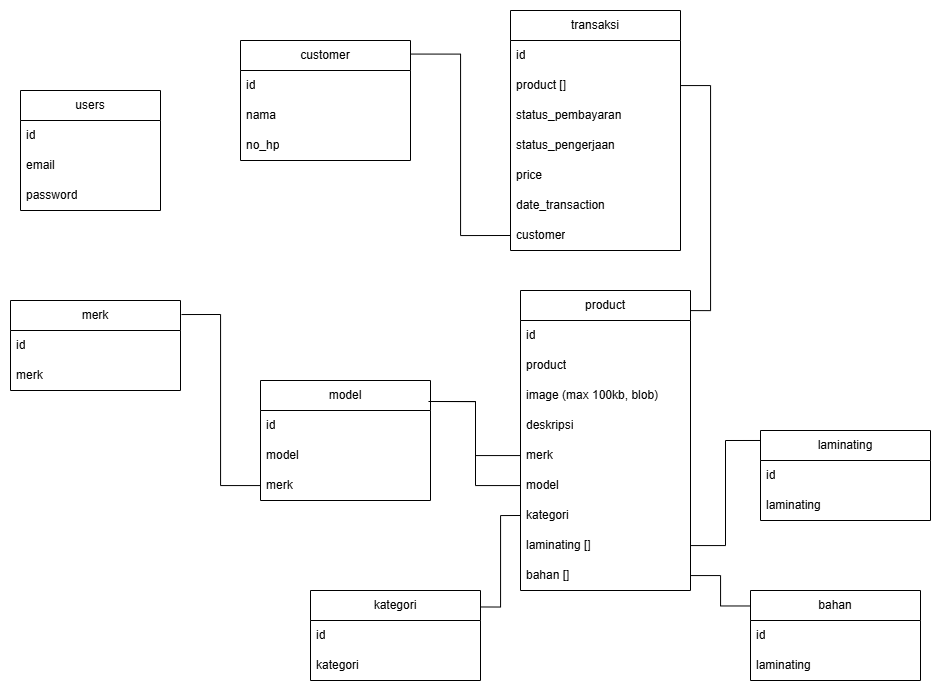
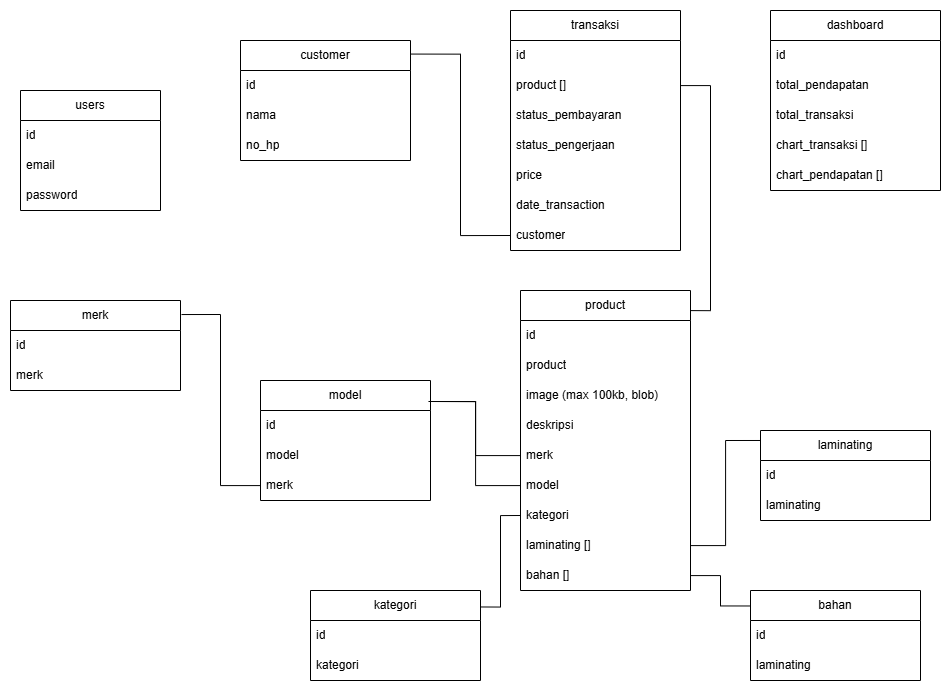
complete all feature

diff --git a/src/pages/dashboard/dashboardIndex.jsx b/src/pages/dashboard/dashboardIndex.jsx
@@ -1,54 +1,63 @@
 import { CartesianGrid, Line, LineChart, ResponsiveContainer, Tooltip, XAxis, YAxis } from 'recharts';
+import useSWR from 'swr';
+import { fetcherDashboards } from '../../lib/fetcher';
 
 function DashboardIndex() {
+    const { data, isLoading } = useSWR('dashboards', fetcherDashboards);
+
     const bulan = ['Januari', 'Februari', 'Maret', 'April', 'Mei', 'Juni', 'Juli', 'Agustus', 'September', 'Oktober', 'November', 'Desember']
-    const data = [
-        { day: '01', revenue: 100 },
-        { day: '02', revenue: 0 },
-        { day: '03', revenue: 1000 }
-    ];
+
+    if (isLoading) {
+        return <>Please wait...</>
+    }
+
+    console.log(data)
 
     return (<>
         <div className="p-4 container">
-            <h2 className="text-2xl font-semibold mb-4">Dashboard</h2>
-            <h2 className="font-bold my-2">Laporan Data Sepanjang Bulan {bulan[new Date().getMonth()]}</h2>
+            <div className='flex justify-between'>
+                <h2 className="text-2xl font-semibold mb-4">Dashboard</h2>
+                <h2 className="font-bold my-2">Laporan Data Sepanjang Bulan {bulan[new Date().getMonth()]} {new Date().getFullYear()}</h2>
+            </div>
 
             <div className="flex gap-4 py-4">
                 <div className="flex-1 p-8 shadow-2xl max-w-[16] rounded-xl">
                     <h2 className="text-xl font-semibold">Total Transaksi</h2>
-                    <span className="text-xl">12</span>
+                    <span className="text-xl">{data.map(e => e.transaksi).reduce((acc, cur) => acc + cur, 0)}</span>
                 </div>
 
                 <div className="flex-1 p-8 shadow-2xl max-w-[16] rounded-xl">
                     <h2 className="text-xl font-semibold">Total Pendapatan</h2>
-                    <span className="text-xl">Rp{(1200000).toLocaleString()}</span>
+                    <span className="text-xl">Rp{data.map(e => e.pendapatan).reduce((acc, cur) => acc + cur, 0).toLocaleString()}</span>
                 </div>
             </div>
-            <div className="flex-1 p-8 shadow-2xl rounded-xl">
-                <h2 className="text-xl font-semibold my-4">Grafix Pendapatan</h2>
-                <ResponsiveContainer width="100%" height={300}>
-                    <LineChart data={data} margin={{ top: 5, right: 20, bottom: 5, left: 0 }}>
-                        <Line type="monotone" dataKey="revenue" stroke="#8884d8" />
-                        <CartesianGrid stroke="#ccc" strokeDasharray="5 5" />
-                        <XAxis dataKey="day" />
-                        <YAxis />
-                        <Tooltip />
-                    </LineChart>
-                </ResponsiveContainer>
+            <div className='flex'>
+                <div className="flex-1 p-8 shadow-2xl rounded-xl">
+                    <h2 className="text-xl font-semibold my-4">Grafik Transaksi</h2>
+                    <ResponsiveContainer width="100%" height={300}>
+                        <LineChart data={data} margin={{ top: 5, right: 20, bottom: 5, left: 0 }}>
+                            <Line type="monotone" dataKey="transaksi" stroke="#8884d8" />
+                            <CartesianGrid stroke="#ccc" strokeDasharray="5 5" />
+                            <XAxis dataKey="day" />
+                            <YAxis />
+                            <Tooltip formatter={e => e.toLocaleString()} />
+                        </LineChart>
+                    </ResponsiveContainer>
+                </div>
+                <div className="flex-1 p-8 shadow-2xl rounded-xl">
+                    <h2 className="text-xl font-semibold my-4">Grafik Pendapatan</h2>
+                    <ResponsiveContainer width="100%" height={300}>
+                        <LineChart data={data} margin={{ top: 5, right: 20, bottom: 5, left: 0 }}>
+                            <Line type="monotone" dataKey="pendapatan" stroke="#8884d8" />
+                            <CartesianGrid stroke="#ccc" strokeDasharray="5 5" />
+                            <XAxis dataKey="day" />
+                            <YAxis />
+                            <Tooltip formatter={e => e.toLocaleString()} />
+                        </LineChart>
+                    </ResponsiveContainer>
+                </div>
             </div>
 
-            <div className="flex-1 p-8 shadow-2xl rounded-xl">
-                <h2 className="text-xl font-semibold my-4">Grafix Transaksi</h2>
-                <ResponsiveContainer width="100%" height={300}>
-                    <LineChart data={data} margin={{ top: 5, right: 20, bottom: 5, left: 0 }}>
-                        <Line type="monotone" dataKey="revenue" stroke="#8884d8" />
-                        <CartesianGrid stroke="#ccc" strokeDasharray="5 5" />
-                        <XAxis dataKey="day" />
-                        <YAxis />
-                        <Tooltip />
-                    </LineChart>
-                </ResponsiveContainer>
-            </div>
 
         </div>
     </>);

diff --git a/src/lib/fetcher.js b/src/lib/fetcher.js
@@ -1,4 +1,4 @@
-import { collection, getDocs } from '@firebase/firestore';
+import { collection, getDocs, query, where } from '@firebase/firestore';
 import { db } from './firebase';
 
 const fetcher = async (path = '') => {
@@ -10,10 +10,36 @@ const fetcher = async (path = '') => {
 };
 
 export const fetcherProducts = () => fetcher('products')
-export const fetcherMerks= () => fetcher('merks')
+export const fetcherMerks = () => fetcher('merks')
 export const fetcherModels = () => fetcher('models')
 export const fetcherKategoris = () => fetcher('kategoris')
 export const fetcherBahans = () => fetcher('bahans')
 export const fetcherLaminatings = () => fetcher('laminatings')
 export const fetcherTransactions = () => fetcher('transaksis')
 export const fetcherCustomers = () => fetcher('customers')
+
+export const fetcherDashboards = async () => {
+    const now = new Date();
+    const startOfMonth = new Date(now.getFullYear(), now.getMonth(), 1); // Awal bulan (misal: 1 Mei 2025)
+    const endOfMonth = new Date(now.getFullYear(), now.getMonth() + 1, 0, 23, 59, 59, 999); // Akhir bulan (misal: 31 Mei 2025)
+    const querySnapshot = await getDocs(query(
+        collection(db, 'transaksis'),
+        where('date_transaction', '>=', startOfMonth),
+        where('date_transaction', '<=', endOfMonth)
+    ));
+    const data = querySnapshot.docs.map((doc) => ({ id: doc.id, ...doc.data() }))
+        .reduce((acc, cur) => {
+            const date = cur.date_transaction.toDate()
+            const day = String(date.getDate()).padStart(2, '0');
+
+            if (!acc[day]) {
+                acc[day] = { day, transaksi: 0, pendapatan: 0 };
+            }
+
+            acc[day].transaksi += 1;
+            acc[day].pendapatan += cur.price;
+
+            return acc;
+        }, {})
+    return Object.values(data);
+}

diff --git a/src/pages/dashboard/dashboard.jsx b/src/pages/dashboard/dashboard.jsx
@@ -27,7 +27,8 @@ function Dashboard() {
                     <Navlink end={true} to={'/dashboard'}>
                         <Home />
                         <span className={clsx({ 'hidden': minimize })}>
-                            Dashboard                               </span>
+                            Dashboard
+                        </span>
                     </Navlink>
                     {
                         links.map(data => (
@@ -41,7 +42,7 @@ function Dashboard() {
                     }
                 </div>
 
-                <div className="flex-1 justify-start w-full items-end">
+                <div className="flex h-screen justify-start w-full items-end">
                     <button className="flex gap-4 font-bold hover:opacity-100 opacity-60 " onClick={() => { signOut(auth) }}>
                         <LogOut />
                         <span className={clsx({ 'hidden': minimize },)}>

diff --git a/src/pages/dashboard/transaksi.jsx b/src/pages/dashboard/transaksi.jsx
@@ -29,6 +29,8 @@ function Transaksi() {
         name: 'listProduct'
     })
 
+    console.log(data)
+
     const handleRemove = (array, id) => {
         if (array.fields.length < 1) return
         const index = array.fields.findIndex((item) => item.id === id);
@@ -45,6 +47,7 @@ function Transaksi() {
     }
     const onSubmit = async (data) => {
         try {
+
 
             if (isDelete) {
                 await deleteDoc(doc(db, 'transaksis', id));
@@ -85,6 +88,8 @@ function Transaksi() {
     if (isLoading || isCustomersLoading || isProductsLoading) {
         return <>Please wait...</>
     }
+
+    console.log(data)
 
     return (<>
         <div className="p-4 container">

diff --git a/README.md b/README.md
@@ -19,7 +19,7 @@ login admin:
 - crud product [x]
 - crud customer [x]
 - crud transaksi [x]
-- dashboard []
+- dashboard [x]
 
 ## nice to have
 - pagination []
